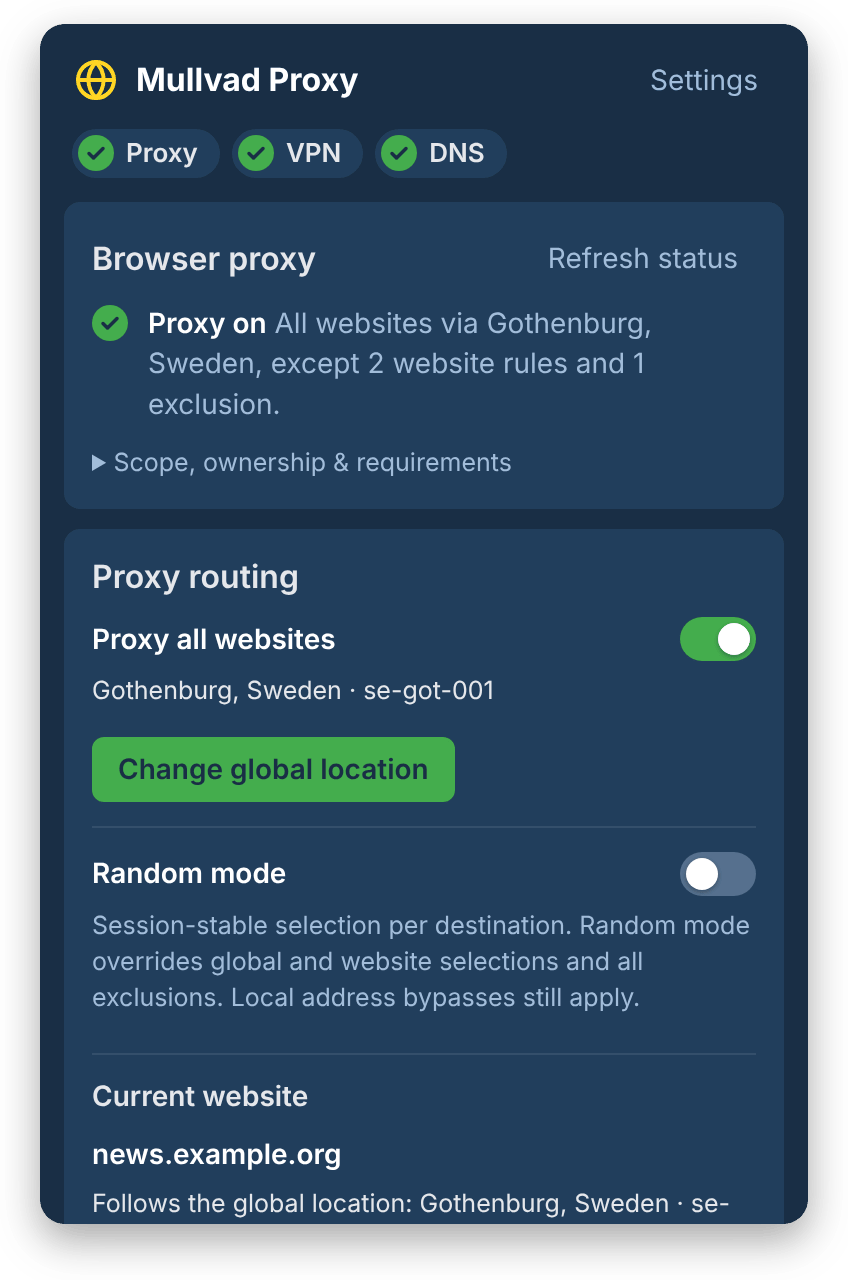
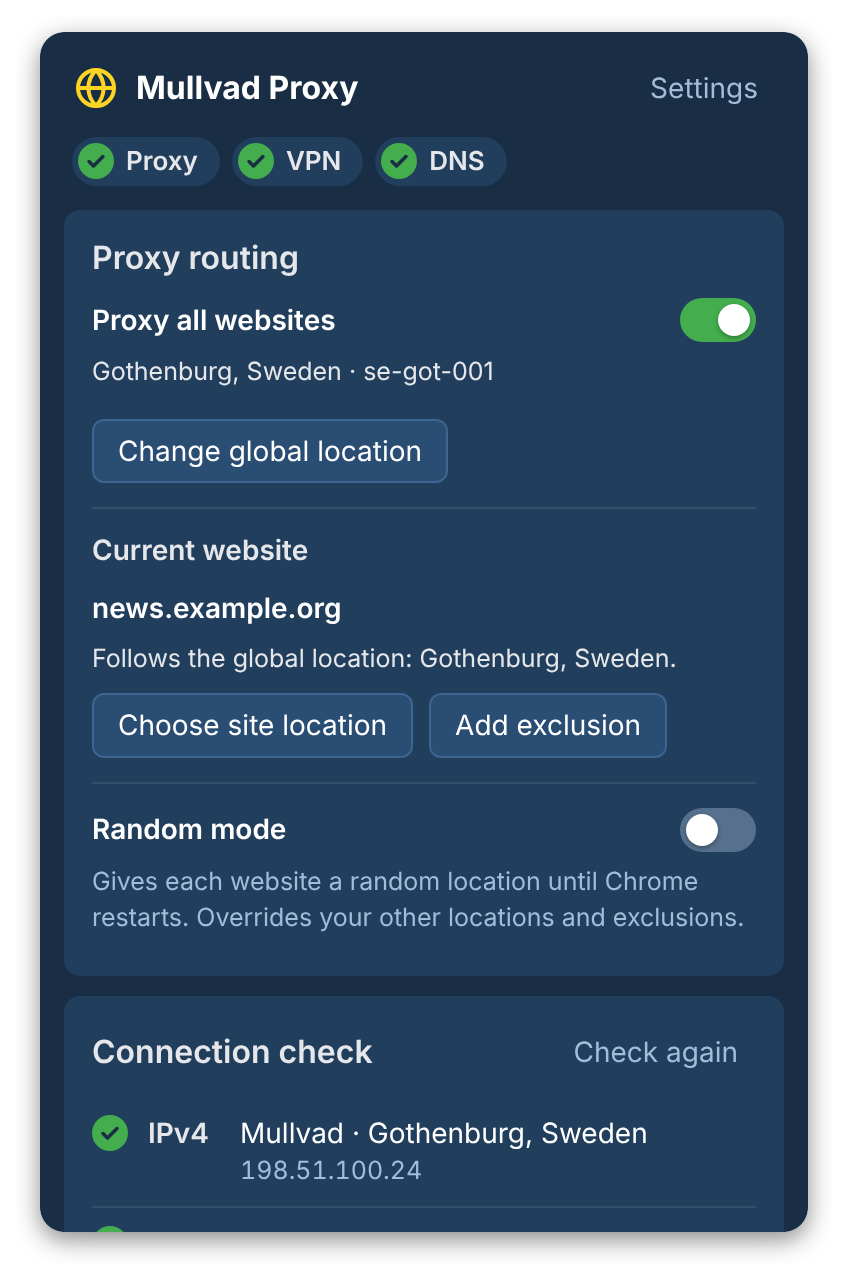
Rewrite the README and refresh its screenshots
Add a table of contents, separate the production and development builds, and replace the pinned Bun version with a minimum.

diff --git a/README.md b/README.md
@@ -1,75 +1,106 @@
 # Mullvad extension for Chrome
 
-An unofficial Chrome Manifest V3 port of the [Mullvad browser extension](https://github.com/mullvad/browser-extension), built with React and Bun. Type checking uses [tsc-rs](https://github.com/pingdotgg/ts-rust), an experimental Rust port of the TypeScript 7 compiler.
+A Chrome Manifest V3 port of the [Mullvad browser extension](https://github.com/mullvad/browser-extension), built with React and Bun. It sends Chrome's traffic through Mullvad SOCKS5 proxies and checks your connection. The proxies work only while Mullvad VPN is connected. The extension doesn't create a VPN tunnel.
 
-**Development preview.** This project is not affiliated with Mullvad. Do not treat a configured browser proxy as proof that a VPN connection works.
+**Development preview.** This project isn't affiliated with Mullvad.
 
-## What it does
+## Contents
 
-- Select a Mullvad SOCKS5 server for the browser or individual destination hosts.
-- Manage website rules, exclusions, session-random routing, favorites, and location history.
-- Check IPv4, IPv6, and DNS through Mullvad's connection-check services when the popup opens and after each routing change.
-- Configure supported Chrome privacy controls and import compatible Firefox settings exports.
+- [Features](#features)
+- [Screenshots](#screenshots)
+- [Install](#install)
+- [Production and development builds](#production-and-development-builds)
+- [Development](#development)
+- [How routing works](#how-routing-works)
+- [Incognito](#incognito)
+- [Development command API](#development-command-api)
+- [License](#license)
 
-Mullvad SOCKS5 servers require an existing Mullvad VPN connection. The extension does not create a VPN tunnel.
+## Features
+
+- Route all websites, or the ones you pick, through a Mullvad SOCKS5 server.
+- Exclude websites from the proxy, or give each website a random server until Chrome restarts.
+- Check IPv4, IPv6 and DNS through Mullvad's connection check when you open the popup and after each routing change.
+- Keep favorite and recent locations at the top of the location list.
+- Stop WebRTC from bypassing the proxy and turn off Chrome's network prediction.
+- Import settings exported from Mullvad's Firefox extension, with a preview of what changes.
 
 ## Screenshots
 
 <p align="center">
-  <img src="docs/screenshots/popup.png" width="32%" alt="Popup with the proxy on for all websites through Gothenburg, Sweden, except two website rules and one exclusion" />
-  <img src="docs/screenshots/current-site.png" width="32%" alt="Current website news.example.org following the global location, above IPv4, IPv6 and DNS checks that each report Mullvad" />
+  <img src="docs/screenshots/popup.png" width="32%" alt="Popup with the proxy on for all websites through Gothenburg, Sweden, and the current website following that location" />
+  <img src="docs/screenshots/connection-check.png" width="32%" alt="Connection check reporting Mullvad for IPv4, IPv6 and DNS, with each exit address and the DNS resolver" />
   <img src="docs/screenshots/locations.png" width="32%" alt="Location picker with two favorites and two recent locations above the full relay list" />
 </p>
-<p align="center"><sub>The popup, the current website with its connection checks, and the location picker. The checks show example addresses.</sub></p>
+<p align="center"><sub>The popup, its connection check and the location picker. The checks show example addresses.</sub></p>
 
 <p align="center">
-  <img src="docs/screenshots/options.png" width="75%" alt="Options page with the global route, two website rules and one exclusion" />
+  <img src="docs/screenshots/options.png" width="75%" alt="Options page with the global route, two website rules, one exclusion and preferences" />
 </p>
-<p align="center"><sub>Routing settings, website rules and exclusions on the options page.</sub></p>
+<p align="center"><sub>Routing settings and website rules on the options page.</sub></p>
 
-## Build and load
+## Install
 
-Use Bun 1.4.3, as pinned in `package.json`.
+1. Install [Bun](https://bun.sh) 1.4.3 or later, then build the extension:
+
+   ```sh
+   bun install --frozen-lockfile
+   bun run build
+   ```
+
+2. Open `chrome://extensions`, turn on **Developer mode**, click **Load unpacked** and select `dist/production`.
+3. Connect Mullvad VPN, open the extension's popup and choose a location.
+
+After you rebuild, click the reload button on the extension's card in `chrome://extensions`.
+
+## Production and development builds
+
+|               | `dist/production` | `dist/development`                                           |
+| ------------- | ----------------- | ------------------------------------------------------------ |
+| Build command | `bun run build`   | `bun run build:dev`                                          |
+| Use it for    | Everyday browsing | Working on the extension                                     |
+| Minified      | Yes               | No                                                           |
+| Source maps   | No                | Yes                                                          |
+| Command API   | No                | Yes, see [Development command API](#development-command-api) |
+
+> [!WARNING]
+> Load `dist/development` only in a separate Chrome profile, and keep that profile's debugging port on `127.0.0.1`. Anything that reaches the port controls the whole profile and can call the command API, which changes proxy settings and returns IP addresses.
+
+## Development
 
 ```sh
-bun install --frozen-lockfile
-bun run build
+bun run check   # type check
+bun run lint    # Biome lint and format check
+bun run format  # apply Biome fixes
+bun test        # unit and browser tests
 ```
 
-Open `chrome://extensions`, enable **Developer mode**, choose **Load unpacked**, and select `dist/production`. Connect the Mullvad VPN app before selecting a proxy. Reload the extension after rebuilding.
+The browser tests need `chromium`, `Xvfb` and `xdotool` on your `PATH`. A missing tool fails the tests instead of skipping them.
 
-For development, run `bun run build:dev` and load `dist/development` instead. Both builds use packaged scripts and a self-only content security policy.
+## How routing works
 
-Other commands:
+- Rules match each request's destination. A page that loads images or scripts from other domains sends those requests through the other domains' routes.
+- A rule or exclusion for `example.com` also covers `www.example.com` and its other subdomains. One for `www.example.com` covers only that host.
+- Excluded websites connect directly. Random mode overrides exclusions and your other locations.
+- `localhost`, its subdomains, and private, loopback, link-local and multicast IP addresses connect directly in every mode.
+- Chrome applies the routing as a mandatory PAC script with no direct fallback. When a website's proxy server is offline or gone from Mullvad's server list, that website fails to load instead of connecting directly.
+- Other apps, and Chrome with the extension turned off, connect without the proxy. The extension isn't a system-wide kill switch.
+- The connection check tests the route its own requests take. When the current website takes a different route, the popup says the results don't apply to it.
+- Chrome's WebRTC setting blocks UDP traffic that would bypass the proxy. WebRTC itself stays on.
+- Proxied websites resolve DNS through the proxy. Chrome has no per-site proxy DNS option like Firefox's, so the importer rejects Firefox exports that turn it off.
 
-```sh
-bun run check
-bun run lint
-bun run format
-bun test
-```
+## Incognito
 
-The browser suite requires `chromium`, `Xvfb`, and `xdotool` on `PATH`. It uses disposable profiles and native permission dialogs. Missing prerequisites fail the browser checks rather than skipping them.
-
-## Routing and privacy limits
-
-Rules apply to each request's destination, not every resource loaded by a particular tab. With random mode off, exclusions bypass the proxy. Random mode overrides saved proxy selections and exclusions. Private, loopback, link-local and multicast IP literals bypass the proxy, as do `localhost` and its subdomains.
-
-The extension uses mandatory Chrome PAC configuration and does not append a direct fallback to SOCKS5 routes. This is not a system-wide kill switch. Disabling the extension, changing browser settings, or using another application falls outside its routing controls.
-
-Connection checks describe the browser route used by the check request. They do not establish the active website's route or prevent DNS leaks. Chrome's WebRTC control restricts non-proxied UDP; it does not disable WebRTC. Firefox's per-site proxy DNS toggle has no equivalent here.
-
-To use the popup in private windows, enable **Allow in Incognito** in the extension's Chrome details. Regular routing is inherited until a private-session override is set. Private routing overrides expire when the last Incognito window closes, and private usage does not enter location history. The Settings button opens regular, persistent settings. Reload-after-change uses one preference for both popup contexts; change it in regular settings. Favorites are shared the same way and change only in regular windows. Incognito diagnostics are unavailable because a spanning service worker cannot guarantee that its requests use the private route.
-
-Import previews identify incompatible settings before replacement. Firefox exports using unsupported DNS settings or unrecognized proxy endpoints require correction; importing them must not silently discard their routing intent.
+- To use the extension in Incognito, turn on **Allow in Incognito** in its details on `chrome://extensions`.
+- Incognito windows use your regular routing until you change it from the popup in an Incognito window. Those changes last until you close the last Incognito window.
+- Incognito browsing doesn't add to location history. Favorites and the reload setting come from regular windows, and you change them there.
+- The connection check doesn't run in Incognito, because the extension can't make sure its requests take the Incognito route. Open [mullvad.net/check](https://mullvad.net/check) in an Incognito tab instead.
 
 ## Development command API
 
-Only the development build exposes `globalThis.mullvadDev` in its service worker. Its `command` method uses the same validation and controller as the UI. The production build excludes this API.
+The development build adds `globalThis.mullvadDev` to its service worker. Its `command` method runs the same validation and controller as the popup. The production build leaves it out.
 
-Use a fresh browser profile and keep the debugging port on loopback. CDP can control the whole debugging profile, so do not attach it to your normal browsing profile or expose its port to a network.
-
-For command-line loading with Chromium:
+Start Chromium with a fresh profile and keep the debugging port on `127.0.0.1`:
 
 ```sh
 bun run build:dev
@@ -82,15 +113,15 @@ chromium \
   --load-extension="$PWD/dist/development"
 ```
 
-In Chrome builds that restrict command-line extension loading, open the isolated profile's `chrome://extensions` page and load `dist/development` manually.
+If your Chrome build ignores `--load-extension`, load `dist/development` from `chrome://extensions` in that profile.
 
-Open the extension popup to wake its worker, then list CDP targets:
+Open the popup once to start the service worker, then list the DevTools targets:
 
 ```sh
 curl --fail --silent http://127.0.0.1:9222/json/list
 ```
 
-Select the `service_worker` target for this extension ID whose URL ends in `/background/index.js`. Connect a CDP client to that target's `webSocketDebuggerUrl` and send:
+Pick the `service_worker` target whose URL ends in `/background/index.js`, connect to its `webSocketDebuggerUrl` and send:
 
 ```json
 {
@@ -104,10 +135,10 @@ Select the `service_worker` target for this extension ID whose URL ends in `/bac
 }
 ```
 
-The returned value is `{ "ok": true, "value": ... }` or `{ "ok": false, "error": ... }`. See [`src/shared/messages.ts`](src/shared/messages.ts) for commands and [`src/shared/state.ts`](src/shared/state.ts) for result types. Commands default to the regular context; Incognito commands also require Chrome opt-in and an open private window.
+The result is `{ "ok": true, "value": ... }` or `{ "ok": false, "error": ... }`. [`src/shared/messages.ts`](src/shared/messages.ts) lists the commands, and [`src/shared/state.ts`](src/shared/state.ts) defines the results. Commands run in the regular context unless you pass `context: "incognito"`, which also needs Allow in Incognito and an open Incognito window.
 
-Rediscover the worker target after extension reloads or worker restarts. Treat diagnostic responses as sensitive because they can contain IP addresses. Close the isolated profile when finished. The extension has no HTTP control server or website-accessible command endpoint.
+After the extension reloads or the worker restarts, look up the worker target again. Diagnostic results can contain IP addresses, so keep them private. Close the profile when you're done. The extension has no HTTP server, and websites can't reach its commands.
 
 ## License
 
-GPL-3.0-or-later. See [LICENSE.md](LICENSE.md) and [NOTICE.md](NOTICE.md). The bundled public-suffix implementation retains its [MIT notice](src/core/tldts.LICENSE).
+GPL-3.0-or-later. See [LICENSE.md](LICENSE.md) and [NOTICE.md](NOTICE.md). The bundled public suffix code keeps its [MIT notice](src/core/tldts.LICENSE).
